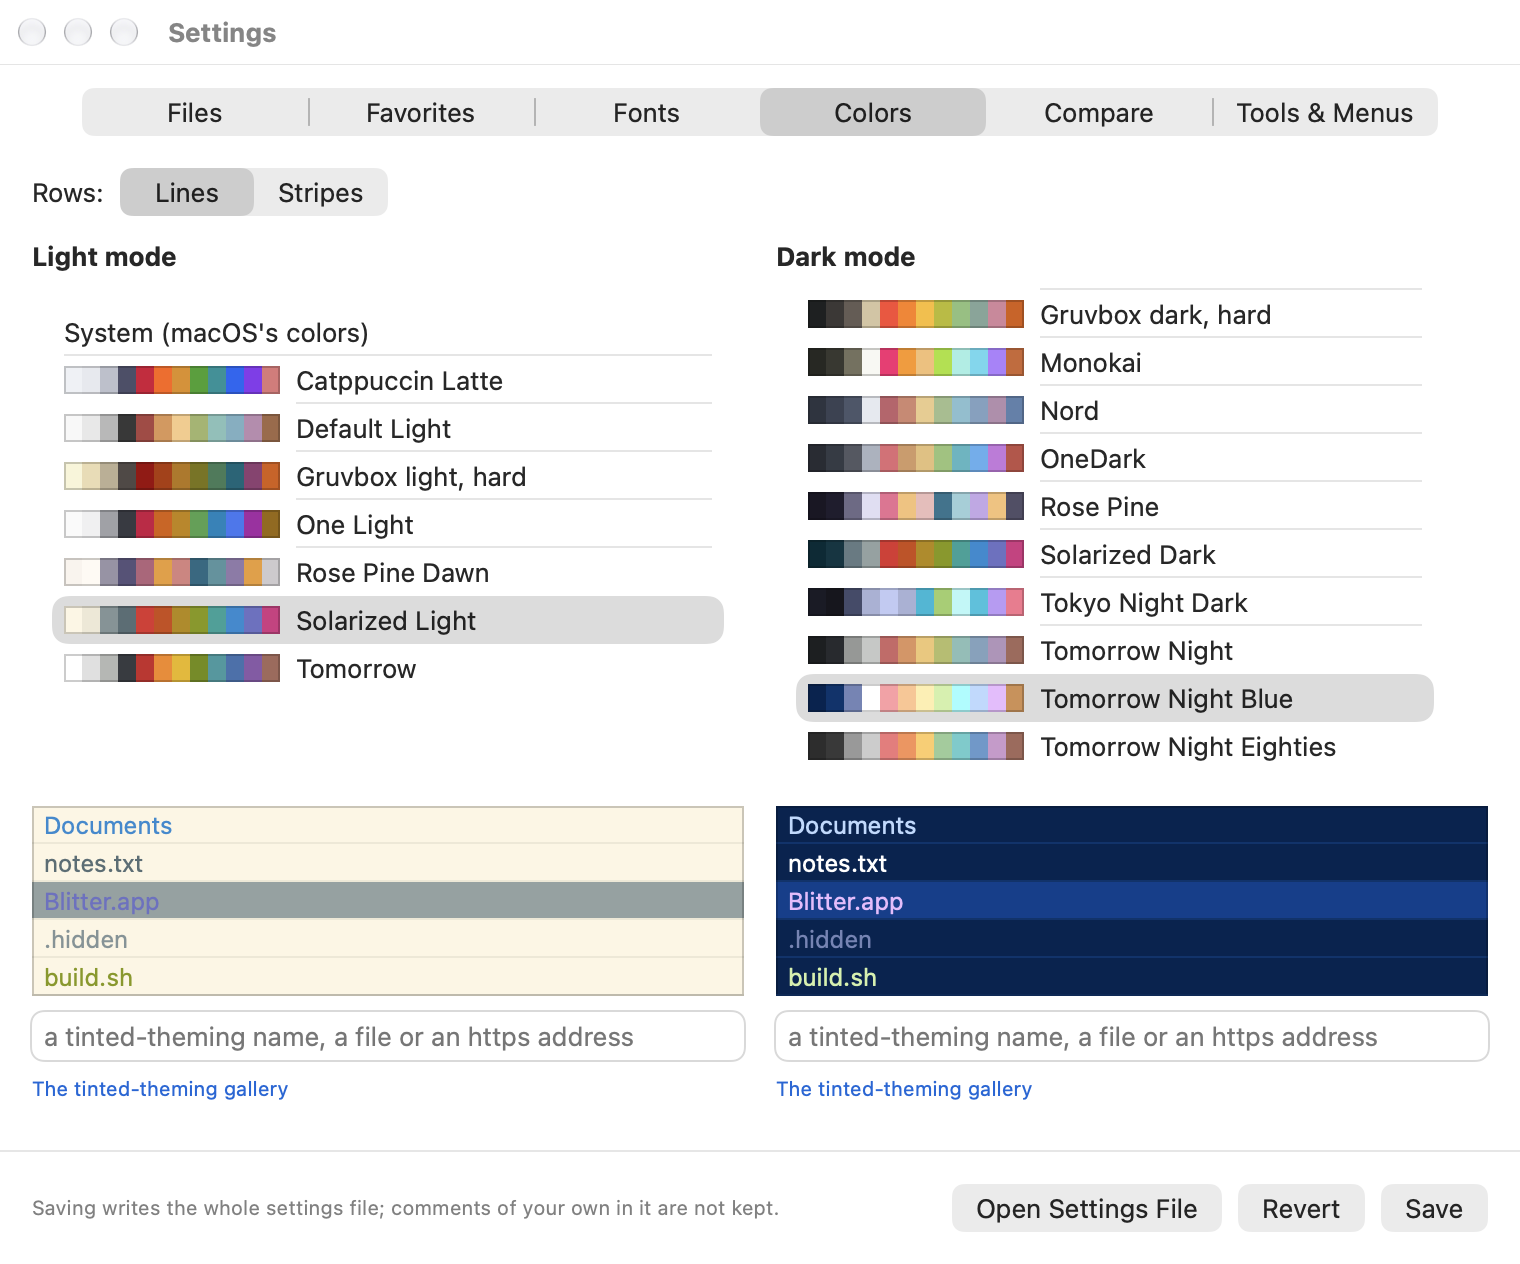
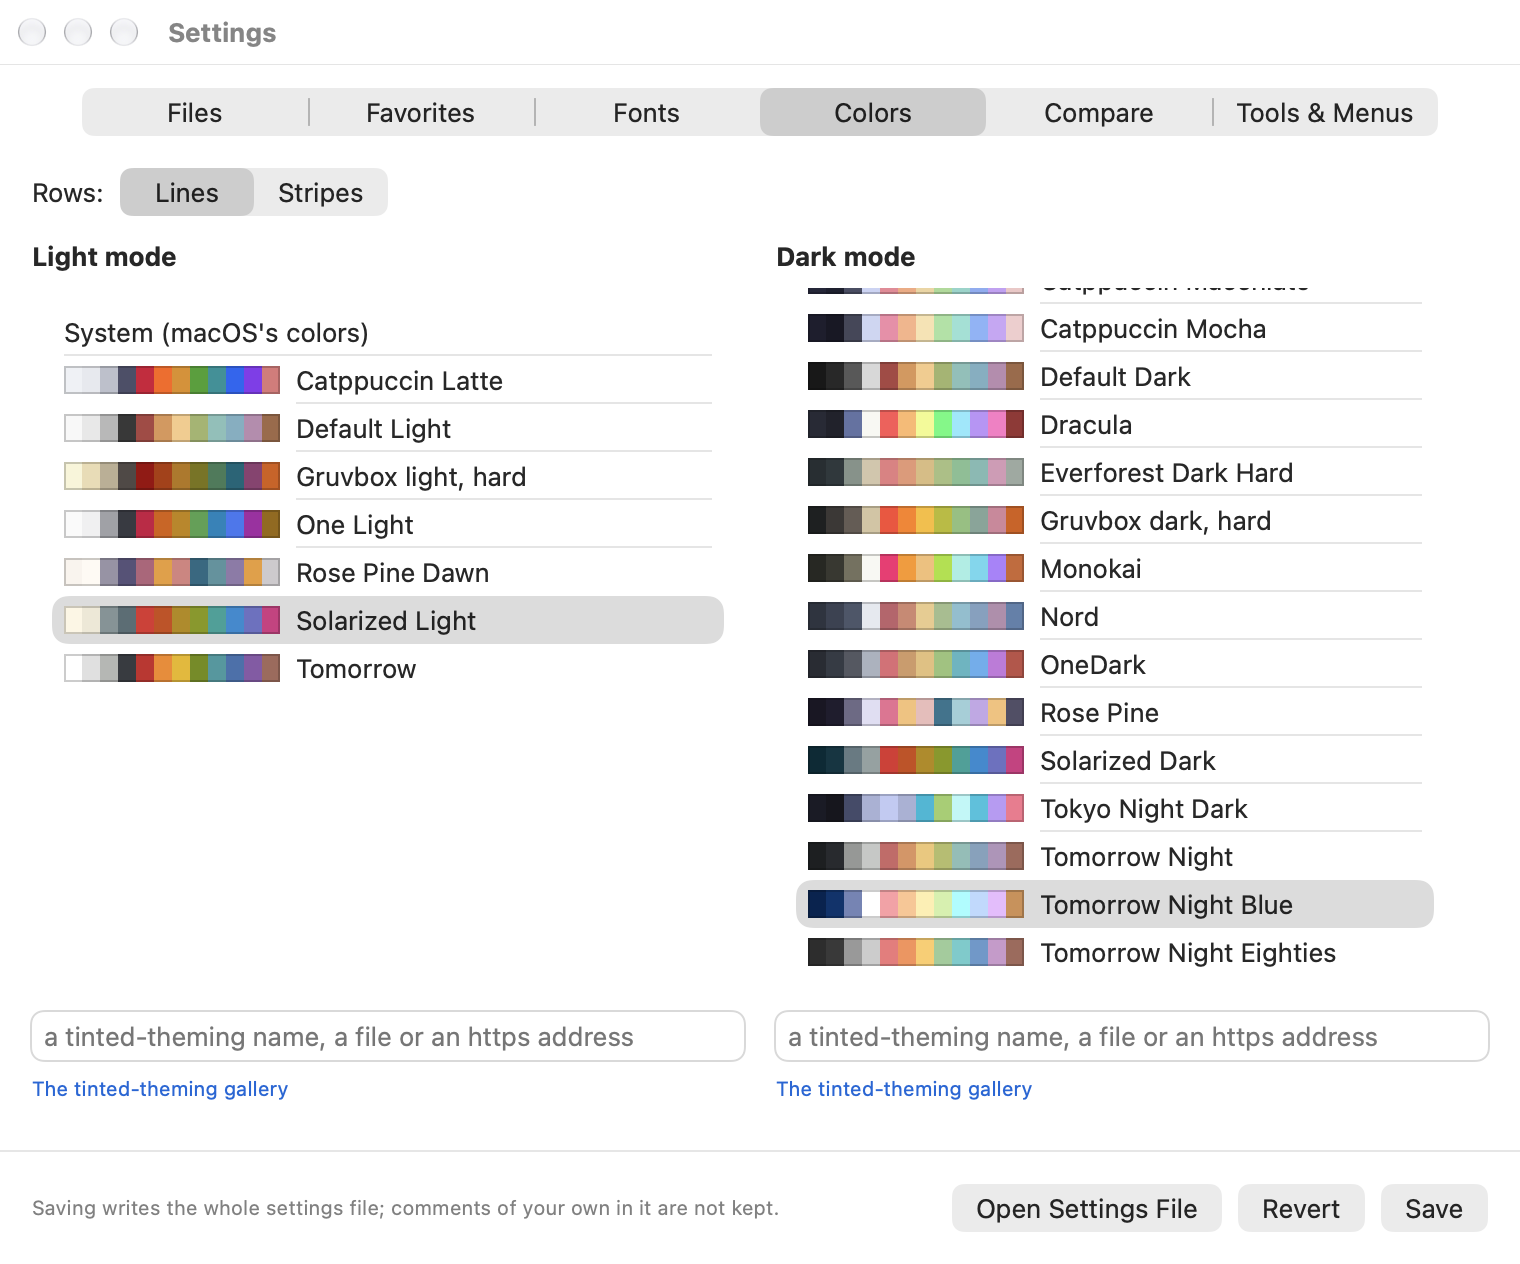
Colors: the whole window shows the scheme while choosing it
While the Settings window is open, the main window draws its draft's
colors (scheme, Lines or Stripes) at once; Save keeps them, Revert or
closing without saving goes back to the settings file's. The small
preview in the Colors tab is gone.

Fixes #93

Changed region(s): [[0.0, 0.216, 0.9895, 0.8022]]

diff --git a/Sources/BlitterApp/SettingsColors.swift b/Sources/BlitterApp/SettingsColors.swift
@@ -2,7 +2,8 @@ import BlitterModel
 import SwiftUI
 
 /// The Colors tab (#73): a scheme for light mode and one for dark mode, picked from the schemes
-/// that come with Blitter, each shown with its colors, the chosen one as a few rows of a list.
+/// that come with Blitter, each shown with its colors; the chosen one shows in the whole window
+/// at once (#93).
 /// Any other scheme (a tinted-theming name, a file, an address) can be typed; the roles each
 /// color takes stay in the settings file. Above them: lines or stripes (#91).
 struct ColorSettings: View {
@@ -55,7 +56,6 @@ struct SchemeChooser: View {
                 .frame(minHeight: 200)
                 .onAppear { scroller.scrollTo(name, anchor: .center) } // the chosen one in sight
             }
-            Preview(scheme: theme.scheme(named: name), name: name, slots: theme.slots, rows: theme.rows)
             TextField("Other", text: $other, prompt: Text("a tinted-theming name, a file or an https address"))
                 .onSubmit {
                     let typed = other.trimmingCharacters(in: .whitespaces)
@@ -89,49 +89,6 @@ struct Swatches: View {
             }
         }
         .border(Color.secondary.opacity(0.4))
-    }
-}
-
-/// A few rows of a list in the scheme's colors, as the roles take them, striped or lined.
-struct Preview: View {
-    let scheme: Base24Scheme?
-    let name: String
-    let slots: [ThemeRole: Int]
-    let rows: RowStyle
-
-    var body: some View {
-        if let scheme {
-            VStack(alignment: .leading, spacing: 0) {
-                row("Documents", .folder, background: .background, scheme)
-                row("notes.txt", .text, background: .stripe, scheme)
-                row("Blitter.app", .package, background: .selection, scheme)
-                row(".hidden", .hidden, background: .stripe, scheme)
-                row("build.sh", .executable, background: .background, scheme)
-            }
-            .border(Color.secondary.opacity(0.4))
-        } else {
-            Text(name == "system" ? "macOS's own colors." : "Shown once it is read: save to see it in the lists.")
-                .font(.caption).foregroundStyle(.secondary)
-                .frame(maxWidth: .infinity, minHeight: 90, alignment: .center)
-        }
-    }
-
-    private func row(_ text: String, _ role: ThemeRole, background: ThemeRole, _ scheme: Base24Scheme) -> some View {
-        Text(text)
-            .font(.callout)
-            .foregroundStyle(color(role, scheme))
-            .padding(.horizontal, 6).padding(.vertical, 2)
-            .frame(maxWidth: .infinity, alignment: .leading)
-            .background(color(rows == .lines && background == .stripe ? .background : background, scheme))
-            .overlay(alignment: .bottom) {
-                if rows == .lines {
-                    Rectangle().fill(color(.stripe, scheme)).frame(height: 1)
-                }
-            }
-    }
-
-    private func color(_ role: ThemeRole, _ scheme: Base24Scheme) -> Color {
-        Color(scheme.colors[slots[role] ?? 0])
     }
 }
 

diff --git a/Tests/BlitterAppTests/SettingsWindowTests.swift b/Tests/BlitterAppTests/SettingsWindowTests.swift
@@ -60,6 +60,48 @@ final class SettingsWindowTests {
         #expect(SettingsWindowController.current?.model === model)
     }
 
+    /// #93: while the window is open, the whole window shows the draft's colors: chosen, not
+    /// saved, reverted, saved; closing goes back to the file's. Other edits are not colors.
+    @Test func chosenColorsShowAtOnceUntilSavedOrNot() async throws {
+        #expect(workspace.themeTrial == nil)
+        let model = try await openWindow()
+        #expect(workspace.themeTrial == model.draft.theme && workspace.shownTheme.dark == "system")
+        model.draft.theme.dark = "nord"
+        #expect(workspace.shownTheme.dark == "nord")
+        #expect(workspace.settings.theme.dark == "system") // nothing saved
+        model.draft.gitColors = false
+        #expect(workspace.shownTheme.dark == "nord")
+        model.revert()
+        #expect(workspace.shownTheme.dark == "system")
+
+        model.draft.theme.rows = .stripes
+        #expect(workspace.shownTheme.rows == .stripes)
+        model.save()
+        try await waitUntil { self.workspace.settings.theme.rows == .stripes && !model.isDirty }
+        #expect(workspace.shownTheme.rows == .stripes) // kept
+
+        model.draft.theme.light = "nord"
+        #expect(workspace.shownTheme.light == "nord")
+        SettingsWindowController.current?.close()
+        #expect(workspace.themeTrial == nil && workspace.shownTheme.light == "system")
+        #expect(workspace.shownTheme.rows == .stripes) // the file's
+    }
+
+    /// #93 review: a choice made while a save is under way is what shows once the save is read
+    /// back, not what was saved.
+    @Test func aChoiceMadeWhileSavingStaysShown() async throws {
+        let model = try await openWindow()
+        workspace.settingsFileBeforeReplace = { Thread.sleep(forTimeInterval: 0.3) }
+        model.draft.theme.rows = .stripes
+        model.save()
+        #expect(model.isSaving)
+        model.draft.theme.rows = .lines // back, while saving
+        try await waitUntil { self.workspace.settings.theme.rows == .stripes && !model.isSaving }
+        try await waitUntil { self.workspace.settingsReads > 1 }
+        #expect(model.draft.theme.rows == .lines && model.isDirty)
+        #expect(workspace.shownTheme.rows == .lines)
+    }
+
     @Test func whatTheFileCannotHoldCannotBeSaved() async throws {
         let model = try await openWindow()
         model.draft.dateFormat = ""

diff --git a/Sources/BlitterApp/SettingsWindow.swift b/Sources/BlitterApp/SettingsWindow.swift
@@ -4,7 +4,8 @@ import SwiftUI
 
 /// The Settings window's state (#64): the settings file as it was read, and the draft the window
 /// shows. Save writes what changed into the file as it is then (a command); Revert drops the
-/// draft. While nothing is edited, the window follows the file when it changes.
+/// draft. While nothing is edited, the window follows the file when it changes. While it is open,
+/// the whole window shows the draft's colors (#93).
 @MainActor
 @Observable
 final class SettingsWindowModel {
@@ -15,6 +16,9 @@ final class SettingsWindowModel {
         didSet {
             if draft != oldValue {
                 draftProblems = draft.problems
+            }
+            if draft.theme != oldValue.theme {
+                tryColors()
             }
         }
     }
@@ -70,7 +74,23 @@ final class SettingsWindowModel {
             draft = document.settings.applying(changesFrom: draftBefore, to: draft)
             draftProblems = isDirty ? draft.problems : []
             loading = nil
+            tryColors()
         }
+    }
+
+    /// The draft's colors in the whole window, once the file is read (#93): edited, saved,
+    /// reverted or as the file has them, what the window shows is what the Colors tab shows —
+    /// there is no other state to keep in step with saves and reads (#93 review). Closing the
+    /// window ends it.
+    private func tryColors() {
+        if document != nil {
+            workspace.perform(.tryTheme(draft.theme))
+        }
+    }
+
+    /// The window closes: what was not saved is no longer tried.
+    func endTrial() {
+        workspace.perform(.tryTheme(nil))
     }
 
     /// The settings were read again (a save, an editor, a zoom): shown, unless the draft has changes.
@@ -194,6 +214,7 @@ final class SettingsWindowController: NSWindowController, NSWindowDelegate {
     }
 
     func windowWillClose(_: Notification) {
+        model.endTrial() // colors not saved go (#93)
         Self.current = nil // a new window reads the file again
     }
 }

diff --git a/Tests/BlitterModelTests/SettingsWindowTests.swift b/Tests/BlitterModelTests/SettingsWindowTests.swift
@@ -265,3 +265,25 @@ struct SettingsWindowSaveTests {
         #expect(try String(contentsOfFile: path, encoding: .utf8) == "# mine\n")
     }
 }
+
+/// #93: colors tried by the Settings window, over the settings' own.
+@MainActor
+struct ThemeTrialTests {
+    @Test func aTriedThemeShowsWithTheSchemesTheSettingsFound() throws {
+        let workspace = Workspace(initialLocation: "/", home: "/home", lister: { _ in [] },
+                                  directoryCheck: { _ in false }, volumes: { [] }, watcher: FakeWatcher.factory)
+        let found = try #require(BuiltInScheme.all.first?.scheme)
+        workspace.settings.theme.schemes["fetched"] = found // e.g. downloaded when the file was read
+        var changes = 0
+        workspace.onChange = { changes += 1 }
+        var trial = ThemeSettings()
+        trial.dark = "fetched"
+        workspace.perform(.tryTheme(trial))
+        #expect(changes == 1 && workspace.themeTrial == trial)
+        #expect(workspace.shownTheme.scheme(named: "fetched") == found && workspace.shownTheme.dark == "fetched")
+        workspace.perform(.tryTheme(trial)) // the same again: nothing changes
+        #expect(changes == 1)
+        workspace.perform(.tryTheme(nil))
+        #expect(workspace.shownTheme == workspace.settings.theme && changes == 2)
+    }
+}

diff --git a/Sources/BlitterModel/Workspace.swift b/Sources/BlitterModel/Workspace.swift
@@ -19,6 +19,10 @@ public final class Workspace {
         didSet { settingsChanged(from: oldValue) }
     }
 
+    /// The colors the Settings window shows in the whole window (#93): its draft's, from when it
+    /// has read the file until it closes. Nil: the settings' own.
+    public internal(set) var themeTrial: ThemeSettings?
+
     /// Messages for the user that stay until dismissed, e.g. problems in the settings file.
     public internal(set) var notices: [Notice] = []
     var nextNoticeID = 0
@@ -207,6 +211,7 @@ public final class Workspace {
         case let .select(side, names): select(side, names)
         case .toggleHiddenFiles: toggleHiddenFiles()
         case let .saveSettings(original, edited): saveSettings(from: original, to: edited)
+        case let .tryTheme(theme): tryTheme(theme)
         case let .zoomFont(zoom): zoomFont(zoom)
         case let .find(side, pattern, contents): find(side, pattern, containing: contents)
         case let .stopFind(side): stopFind(side)

diff --git a/Tests/BlitterAppTests/ThemeInteractionTests.swift b/Tests/BlitterAppTests/ThemeInteractionTests.swift
@@ -100,6 +100,17 @@ final class ThemeInteractionTests {
         #expect(notice.textColor == .systemOrange)
     }
 
+    /// #93: colors tried by the Settings window recolor the list at once, and go again.
+    @Test func triedColorsShowAndGo() throws {
+        var trial = ThemeSettings()
+        (trial.light, trial.dark) = ("nord", "nord")
+        workspace.perform(.tryTheme(trial))
+        side.view.layoutSubtreeIfNeeded()
+        #expect(try hex(#require(list.tableView.backgroundColor)) == "2e3440")
+        workspace.perform(.tryTheme(nil))
+        #expect(list.tableView.backgroundColor == .controlBackgroundColor)
+    }
+
     /// "stripes" (#91): AppKit's stripes in the list and the tree without a scheme, the scheme's
     /// with one; no lines either way. Back to "lines", the list's rows draw them again.
     @Test func stripesInsteadOfLines() throws {

diff --git a/Sources/BlitterModel/Workspace+SettingsWindow.swift b/Sources/BlitterModel/Workspace+SettingsWindow.swift
@@ -169,3 +169,26 @@ public extension Workspace {
         _ = await finishSavingSettings()
     }
 }
+
+public extension Workspace {
+    /// The colors the views draw with: the settings', or the ones being tried (#93). A tried
+    /// theme is the file's as the Settings window edits it, so the schemes the settings found
+    /// (downloaded, read from a file) are added for the names it does not hold itself.
+    var shownTheme: ThemeSettings {
+        guard var trial = themeTrial else {
+            return settings.theme
+        }
+        trial.schemes.merge(settings.theme.schemes) { own, _ in own }
+        return trial
+    }
+}
+
+extension Workspace {
+    func tryTheme(_ theme: ThemeSettings?) -> Bool {
+        guard theme != themeTrial else {
+            return false
+        }
+        themeTrial = theme
+        return true
+    }
+}

diff --git a/Sources/BlitterApp/Git/GitLogWindowController.swift b/Sources/BlitterApp/Git/GitLogWindowController.swift
@@ -29,7 +29,7 @@ final class GitLogWindowController: NSWindowController, NSTableViewDataSource, N
     init(workspace: Workspace, path: String, access: GitHistoryAccess = .real) {
         log = GitLog(workspace: workspace, path: path, access: access)
         dateFormatter = Formatting.dateFormatter(workspace.settings.dateFormat)
-        rows = .system(rows: workspace.settings.theme.rows)
+        rows = .system(rows: workspace.shownTheme.rows)
         let window = NSWindow(contentRect: NSRect(x: 0, y: 0, width: 960, height: 640),
                               styleMask: [.titled, .closable, .miniaturizable, .resizable], backing: .buffered,
                               defer: false)

diff --git a/Sources/BlitterModel/Command.swift b/Sources/BlitterModel/Command.swift
@@ -51,6 +51,9 @@ public enum Command: Sendable {
     /// The Settings window's changes (#64), from the settings it showed to those it shows now,
     /// written into the settings file as it is now.
     case saveSettings(original: Settings, edited: Settings)
+    /// Show these colors in the whole window while the Settings window tries them (#93); nil:
+    /// the settings' own again.
+    case tryTheme(ThemeSettings?)
     /// Search below the side's folder for names matching the pattern (#48), and files containing
     /// a text (#49); neither: stop showing the results.
     case find(Side, pattern: String, containing: String = "")

diff --git a/Sources/BlitterApp/Git/GitCommitWindowController.swift b/Sources/BlitterApp/Git/GitCommitWindowController.swift
@@ -31,7 +31,7 @@ final class GitCommitWindowController: NSWindowController, NSTableViewDataSource
 
     init(workspace: Workspace, path: String, access: GitCommitAccess = .real) {
         committer = GitCommitter(workspace: workspace, path: path, access: access)
-        rows = .system(rows: workspace.settings.theme.rows)
+        rows = .system(rows: workspace.shownTheme.rows)
         let window = NSWindow(contentRect: NSRect(x: 0, y: 0, width: 760, height: 620),
                               styleMask: [.titled, .closable, .miniaturizable, .resizable], backing: .buffered,
                               defer: false)

diff --git a/Sources/BlitterApp/JobsViewController.swift b/Sources/BlitterApp/JobsViewController.swift
@@ -61,7 +61,7 @@ final class JobsViewController: NSViewController {
     /// Returns true if the theme changed; the strip's own colors are set here, its rows' by
     /// the caller.
     private func renderPalette() -> Bool {
-        guard let new = Palette.changed(from: palette, workspace.settings.theme, for: view) else {
+        guard let new = Palette.changed(from: palette, workspace.shownTheme, for: view) else {
             return false
         }
         palette = new

diff --git a/Sources/BlitterApp/FolderTreeViewController+Theme.swift b/Sources/BlitterApp/FolderTreeViewController+Theme.swift
@@ -5,7 +5,7 @@ import BlitterModel
 extension FolderTreeViewController {
     /// Returns true if the colors changed, so the tree is rebuilt in the new ones.
     func renderPalette() -> Bool {
-        guard let new = Palette.changed(from: palette, workspace.settings.theme, for: view) else {
+        guard let new = Palette.changed(from: palette, workspace.shownTheme, for: view) else {
             return false
         }
         palette = new
